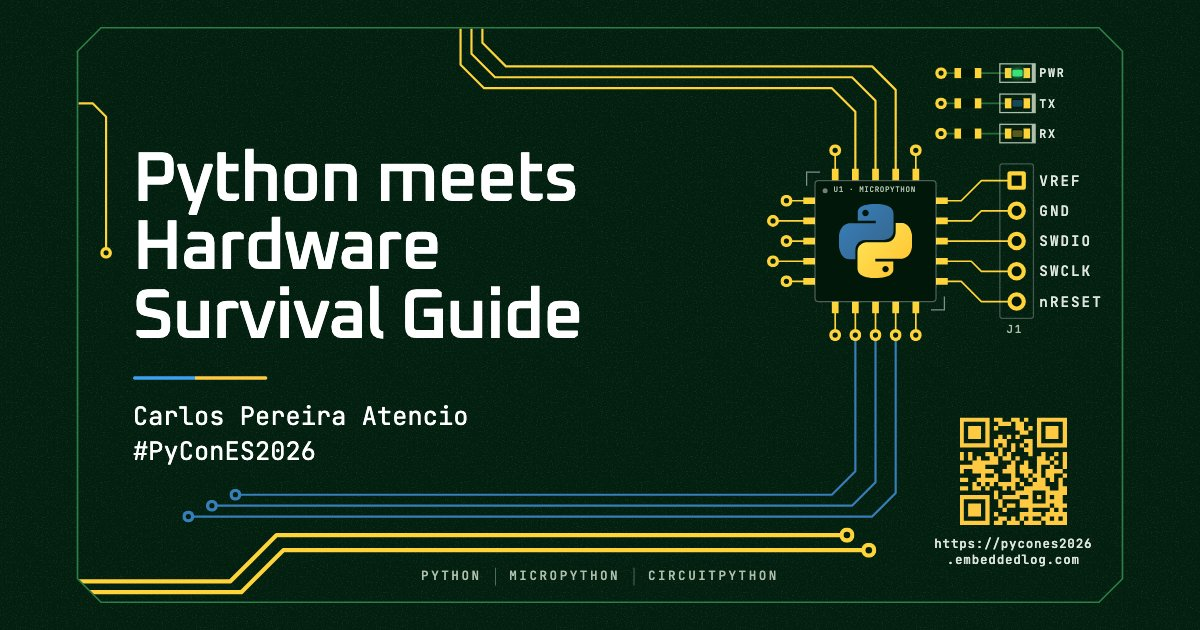
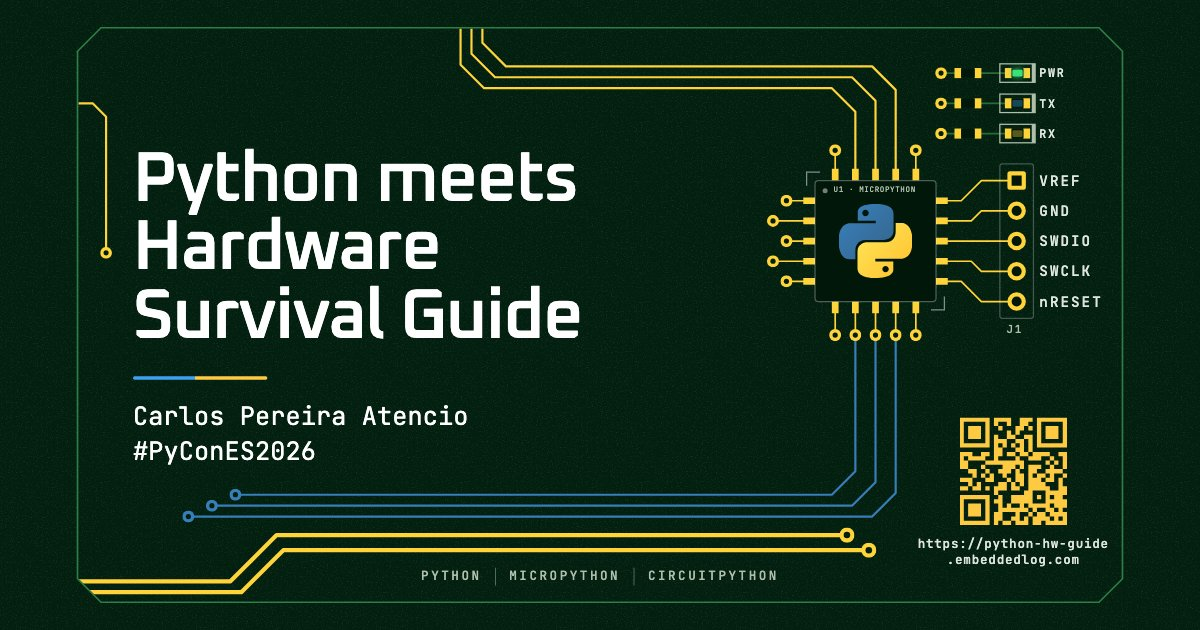
Set v1.0.0 and set new URL and QR code.

Changed region(s): [[0.7708, 0.6635, 0.925, 0.8746]]

diff --git a/index.html b/index.html
@@ -7,12 +7,12 @@
     <title>Python meets Hardware Survival Guide | Carlos Pereira Atencio</title>
     <!-- Link previews. Cards need absolute URLs: the deck URL the QR encodes.
          The image is made by scripts/social-card.mjs. -->
-    <link rel="canonical" href="https://pycones2026.embeddedlog.com/" />
+    <link rel="canonical" href="https://python-hw-guide.embeddedlog.com/" />
     <meta property="og:type" content="website" />
-    <meta property="og:url" content="https://pycones2026.embeddedlog.com/" />
+    <meta property="og:url" content="https://python-hw-guide.embeddedlog.com/" />
     <meta property="og:title" content="Python meets Hardware Survival Guide" />
     <meta property="og:description" content="PyConES 2026 talk by Carlos Pereira Atencio, the slides, source code and links." />
-    <meta property="og:image" content="https://pycones2026.embeddedlog.com/images/social-card.jpg" />
+    <meta property="og:image" content="https://python-hw-guide.embeddedlog.com/images/social-card.jpg" />
     <meta property="og:image:width" content="1200" />
     <meta property="og:image:height" content="630" />
     <meta property="og:image:alt" content="The talk's cover slide, drawn as a circuit board: the title, a chip with the Python logo, and a QR code to the slides." />
@@ -72,6 +72,7 @@
         </a>
       </section>
       <nav class="links" aria-label="Related links">
+        <a class="link" href="./pycones2026/presentation"><span>PyConES 2026 archived version</span><span class="link__arrow" aria-hidden="true"><svg class="link-arrow" viewBox="0 0 24 24" width="22" height="22" fill="none" stroke="currentColor" stroke-width="1.8" stroke-linecap="square" stroke-linejoin="miter" focusable="false"><path d="M6 18 18 6M9 6h9v9" /></svg></span></a>
         <a class="link" href="https://github.com/carlosperate/python-hw-survival-guide-presentation"><span>Presentation Repository</span><span class="link__arrow" aria-hidden="true"><svg class="link-arrow" viewBox="0 0 24 24" width="22" height="22" fill="none" stroke="currentColor" stroke-width="1.8" stroke-linecap="square" stroke-linejoin="miter" focusable="false"><path d="M6 18 18 6M9 6h9v9" /></svg></span></a>
         <!-- <a class="link" href="https://www.embeddedlog.com/" rel="me"><span>Website</span><span class="link__arrow" aria-hidden="true"><svg class="link-arrow" viewBox="0 0 24 24" width="22" height="22" fill="none" stroke="currentColor" stroke-width="1.8" stroke-linecap="square" stroke-linejoin="miter" focusable="false"><path d="M6 18 18 6M9 6h9v9" /></svg></span></a-->
         <a class="link" href="https://pretalx.com/pycones-2026/speaker/MWGD3P/" rel="me"><span>About me</span><span class="link__arrow" aria-hidden="true"><svg class="link-arrow" viewBox="0 0 24 24" width="22" height="22" fill="none" stroke="currentColor" stroke-width="1.8" stroke-linecap="square" stroke-linejoin="miter" focusable="false"><path d="M6 18 18 6M9 6h9v9" /></svg></span></a>

diff --git a/slides/01-intro.html b/slides/01-intro.html
@@ -112,7 +112,7 @@
     <!-- data-board-qr: while this shows, the board's QR moves out of its chip, large, beside it. -->
     <p class="lede fragment" data-fragment-index="1" data-board-qr="large">
       Scan the QR to follow along during the talk,<br />or at your own pace.
-      <span class="deck-url">https://pycones2026.embeddedlog.com</span>
+      <span class="deck-url">https://python-hw-guide.embeddedlog.com</span>
     </p>
 
     <aside class="notes">

diff --git a/presentation.html b/presentation.html
@@ -30,7 +30,7 @@
         </pattern>
       </defs>
     </svg>
-    <div class="reveal" data-deck-url="https://pycones2026.embeddedlog.com">
+    <div class="reveal" data-deck-url="https://python-hw-guide.embeddedlog.com">
       <div class="slides">
         <!-- One file per part, in running order. -->
         <!-- @include slides/01-intro.html -->

diff --git a/src/styles/diagrams.css b/src/styles/diagrams.css
@@ -1264,7 +1264,7 @@
   display: block;
   margin-top: 12px;
   font-family: var(--pcb-font-mono);
-  font-size: 30px;
+  font-size: 26px;
   color: var(--pcb-gold);
 }
 

diff --git a/scripts/art/qr.py b/scripts/art/qr.py
@@ -1,40 +1,40 @@
 """Writes public/images/qr.svg, the deck URL's QR code, from its module grid.
 
-The grid encodes HTTPS://PYCONES2026.EMBEDDEDLOG.COM (version 2-M, 25 modules).
+The grid encodes HTTPS://PYTHON-HW-GUIDE.EMBEDDEDLOG.COM (version 2-L, 25 modules).
 If data-deck-url changes, paste a new grid from any QR encoder ('#' dark,
 '.' light) and rerun: python3 scripts/art/qr.py
 """
 
 from pathlib import Path
 
-URL = "https://pycones2026.embeddedlog.com"
+URL = "https://python-hw-guide.embeddedlog.com"
 
 GRID = """
-#######.##..##.#..#######
-#.....#..###.##...#.....#
-#.###.#.#....##.#.#.###.#
-#.###.#.......##..#.###.#
-#.###.#..#.#.#....#.###.#
-#.....#.###....##.#.....#
+#######.####..###.#######
+#.....#.#..#..##..#.....#
+#.###.#..#...##.#.#.###.#
+#.###.#....#.#....#.###.#
+#.###.#.#..##..##.#.###.#
+#.....#.###..##.#.#.....#
 #######.#.#.#.#.#.#######
-.........#..#..##........
-#.#...##.#.#....#..#..#.#
-#.#.#..##.##.#....##.#..#
-...######...#..#..###.#.#
-######.....##.##..#..#..#
-#..#####..###.###.#.####.
-.....#..#...#..#.##.##..#
-##..#####...##..#.##.#.#.
-...#.#.#.####.#..###...#.
-##.##.#...#.#..######..##
-........#....####...#####
-#######.#.####..#.#.#.##.
-#.....#..#....###...####.
-#.###.#..#.##.#######.###
-#.###.#...#.....#....#.#.
-#.###.#.#.....#####.#####
-#.....#..##.#.#.#..##.#.#
-#######.##.###.####.#####
+........##...##.#........
+###..##.##.##.##.####..##
+#.####..#....#..###..#..#
+##....#########.....#.#.#
+##...#....###.#.###..#..#
+..##..#..###.#..##..####.
+...#.#.#..#..##.#.##.#..#
+###...##...#.##.###.##.#.
+..#.#....##.#.#.####...#.
+##.##.#.###.##..#####..##
+........#......##...#####
+#######..#..#####.#.#.##.
+#.....#.##..#####...#####
+#.###.#..#.#..#.#####.###
+#.###.#..#######.#..##.#.
+#.###.#.##...#..#.##.####
+#.....#.##..##.#.####.#.#
+#######.#.##.###.##.#####
 """.split()
 
 OUT = Path(__file__).resolve().parents[2] / "public" / "images" / "qr.svg"
@@ -62,7 +62,7 @@ assert all(len(row) == size for row in GRID), "every row needs as many modules a
 OUT.write_text(f"""<svg xmlns="http://www.w3.org/2000/svg" viewBox="0 0 {size} {size}" width="100" height="100" role="img" aria-label="QR code: {URL}">
   <!--
     {URL}, upper-cased so it fits QR alphanumeric
-    mode: version 2-M, {size} modules. Square cells in full-strength gold,
+    mode: version 2-L, {size} modules. Square cells in full-strength gold,
     since a projector and a phone at the back of the room need every bit of
     each cell's light. Light on dark (inverted); the board around it is the
     quiet zone. Generated by scripts/art/qr.py: change that, not this file.
